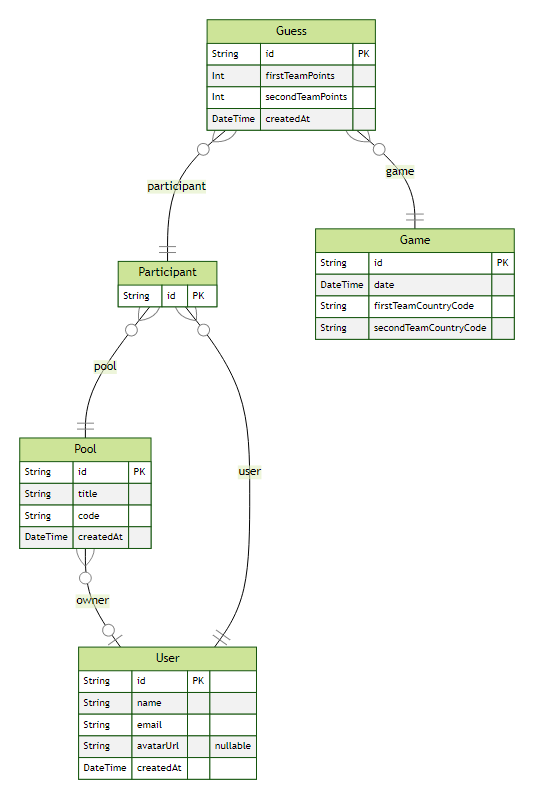
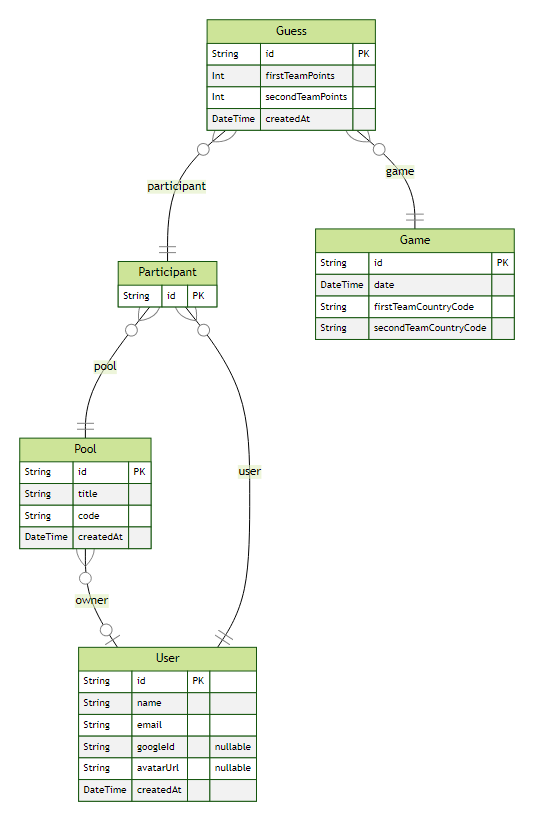
authenticate

diff --git a/server/src/routes/auth.ts b/server/src/routes/auth.ts
@@ -1,10 +1,23 @@
 import { FastifyInstance } from "fastify"
 import { z } from "zod"
 import { prisma } from "../lib/prisma"
+import { authentication } from "../plugins/authenticate"
 
 
 
 export async function authRoutes(fastify: FastifyInstance){
+  fastify.get(
+    '/me', 
+    {
+      onRequest: [authentication],
+    }, 
+  async(request) => {
+  
+
+    return { user: request.user }
+  })
+  
+  
   fastify.post('/users', async (request) => {
     
       const createUserBody = z.object({
@@ -20,7 +33,7 @@ export async function authRoutes(fastify: FastifyInstance){
         Authorization: `Bearer ${access_token}`,
       }
     })
-    console.log("LOGGGGGGG =>> ", userResponse);
+    // console.log("LOGGGGGGG =>> ", userResponse);
     // console.log('TOKEN => ', access_token);
     const userData = await userResponse.json()
 
@@ -35,6 +48,31 @@ export async function authRoutes(fastify: FastifyInstance){
 
     const userInfo = userInfoSchema.parse(userData)
 
-    return  { userInfo}
+    let user = await prisma.user.findUnique({
+      where: {
+        googleId: userInfo.id,
+
+      }
+    })
+    if(!user){
+      user = await prisma.user.create({
+        data: {
+          googleId: userInfo.id,
+          name: userInfo.name,
+          email: userInfo.email,
+          avatarUrl: userInfo.picture,
+        }
+      })
+    }
+
+    const token = fastify.jwt.sign({
+      name: user.name,
+      avatarUrl: user.avatarUrl,
+    },{
+      sub: user.id,
+      expiresIn: '7 days',
+    })
+
+    return  {token}
   })
 }

diff --git a/server/src/server.ts b/server/src/server.ts
@@ -1,5 +1,7 @@
 import Fastify from 'fastify';
-import cors from '@fastify/cors'
+import cors from '@fastify/cors';
+import jwt from '@fastify/jwt';
+
 
 import { poolRoutes } from './routes/pool';
 import { authRoutes } from './routes/auth';
@@ -15,6 +17,11 @@ async function bootstrap(){
 
   await fastify.register(cors, {
     origin: true,
+  })
+
+
+  await fastify.register(jwt, {
+    secret: 'nlwcopa',
   })
 
 await fastify.register(poolRoutes)

diff --git a/server/src/plugins/authenticate.ts b/server/src/plugins/authenticate.ts
@@ -1,0 +1,5 @@
+import { FastifyRequest } from "fastify";
+
+export async function authentication(request: FastifyRequest){
+  await request.jwtVerify();
+}
